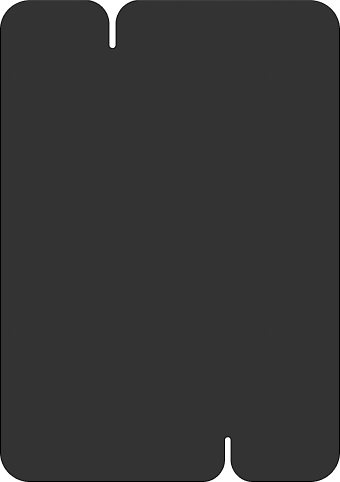
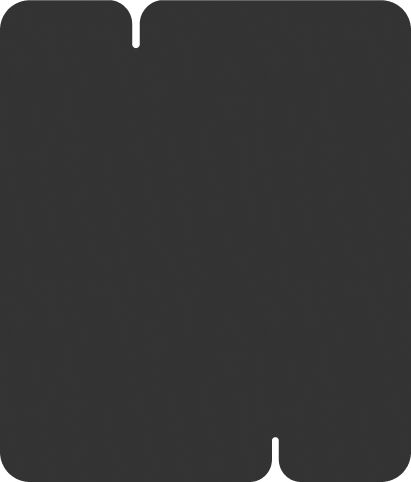
add marks #2

diff --git a/js/app.min.js b/js/app.min.js
@@ -356,7 +356,7 @@ eval("__webpack_require__.r(__webpack_exports__);\n/* harmony export */ __webpac
   \***********************/
 /***/ ((__unused_webpack___webpack_module__, __webpack_exports__, __webpack_require__) => {
 
-eval("__webpack_require__.r(__webpack_exports__);\n/* harmony import */ var swiper__WEBPACK_IMPORTED_MODULE_0__ = __webpack_require__(/*! swiper */ \"./node_modules/swiper/swiper.mjs\");\n/* harmony import */ var swiper_modules__WEBPACK_IMPORTED_MODULE_1__ = __webpack_require__(/*! swiper/modules */ \"./node_modules/swiper/modules/index.mjs\");\n\r\n// Plugins\r\n\r\n\r\nconst introWithSwiper = document.querySelector(\"._intro-with-swiper\");\r\n\r\nif (introWithSwiper) {\r\n  const swiper = introWithSwiper.querySelector(\".swiper\");\r\n  const swiperPagintaion = introWithSwiper.querySelector(\".swiper-pagination\");\r\n\r\n  const swiperInstance = new swiper__WEBPACK_IMPORTED_MODULE_0__[\"default\"](swiper, {\r\n    spaceBetween: 0,\r\n    slidesPerView: 1,\r\n    loop: true,\r\n    modules: [swiper_modules__WEBPACK_IMPORTED_MODULE_1__.Pagination],\r\n    pagination: {\r\n      el: swiperPagintaion,\r\n      clickable: true,\r\n    },\r\n  });\r\n}\r\nconst reviewsContainer = document.querySelector(\".reviews\");\r\n\r\nif (reviewsContainer) {\r\n  const slider = reviewsContainer.querySelector(\".swiper\");\r\n  const prevArrow = reviewsContainer.querySelector(\".swiper-button-prev\");\r\n  const nextArrow = reviewsContainer.querySelector(\".swiper-button-next\");\r\n\r\n  const swiperInstance = new swiper__WEBPACK_IMPORTED_MODULE_0__[\"default\"](slider, {\r\n    spaceBetween: 24,\r\n    slidesPerView: 3,\r\n    modules: [swiper_modules__WEBPACK_IMPORTED_MODULE_1__.Navigation],\r\n    navigation: {\r\n      prevEl: prevArrow,\r\n      nextEl: nextArrow,\r\n    },\r\n    breakpoints: {\r\n      332: {\r\n        slidesPerView: 1.1,\r\n        spaceBetween: 10,\r\n      },\r\n      992: {\r\n        slidesPerView: 2.4,\r\n        spaceBetween: 24,\r\n      },\r\n      1440: {\r\n        slidesPerView: 3,\r\n      },\r\n      1660: {\r\n        slidesPerView: 3,\r\n        spaceBetween: 24,\r\n      },\r\n    },\r\n  });\r\n}\r\n\r\nconst burgerButton = document.querySelector(\".header__burger\");\r\nconst burgerMenu = document.querySelector(\".header__nav\");\r\n\r\nburgerButton.onclick = (e) => {\r\n  e.preventDefault();\r\n\r\n  burgerButton.classList.toggle(\"burger-active\");\r\n  burgerMenu.classList.toggle(\"burger-active\");\r\n};\r\n\r\nfunction slide(clicableBlock, activeClass) {\r\n  clicableBlock.onclick = (e) => {\r\n    e.preventDefault();\r\n    clicableBlock.classList.toggle(activeClass);\r\n    clicableBlock.nextElementSibling.classList.toggle(activeClass);\r\n  };\r\n}\r\n\r\nconst regexpRedirectLink = /^http?:/;\r\nconst baseOffset = 20;\r\n\r\nconst scrollLinks = document.querySelectorAll(\"[data-scroll]\");\r\n\r\nfunction getHeaderOffset() {\r\n  const header = document.querySelector(\".header\");\r\n  const headerHeight = header ? header.clientHeight : 0;\r\n  return headerHeight + baseOffset;\r\n}\r\nfunction scrollToBlock(link, block) {\r\n  link.addEventListener(\"click\", (e) => {\r\n    e.preventDefault();\r\n\r\n    if (!block) return;\r\n\r\n    const rect = block.getBoundingClientRect();\r\n    const scrollTop = window.pageYOffset || document.documentElement.scrollTop;\r\n    const targetTop = rect.top + scrollTop - getHeaderOffset();\r\n\r\n    window.scrollTo({\r\n      top: targetTop,\r\n      behavior: \"smooth\",\r\n    });\r\n  });\r\n}\r\nfunction handleScrollOnPageLoad() {\r\n  const hash = window.location.hash;\r\n  if (!hash || hash === \"#\") return;\r\n\r\n  const blockId = hash.substring(1);\r\n\r\n  const block =\r\n    document.getElementById(blockId) ||\r\n    document.querySelector(hash) ||\r\n    document.querySelector(`.${blockId}`);\r\n\r\n  if (!block) return;\r\n  const rect = block.getBoundingClientRect();\r\n  const scrollTop = window.pageYOffset || document.documentElement.scrollTop;\r\n  const targetTop = rect.top + scrollTop - getHeaderOffset();\r\n\r\n  window.scrollTo({\r\n    top: targetTop,\r\n    behavior: \"smooth\",\r\n  });\r\n}\r\nwindow.addEventListener(\"load\", () => {\r\n  handleScrollOnPageLoad();\r\n});\r\n\r\nscrollLinks.forEach((link) => {\r\n  const currentBlock =\r\n    link.dataset.scroll && document.querySelector(`#${link.dataset.scroll}`);\r\n  const href = link.getAttribute(\"href\");\r\n  if (!href || !currentBlock) return;\r\n\r\n  const isScrollLink = !!currentBlock;\r\n  const isRedirectLink = href.match(regexpRedirectLink);\r\n\r\n  if (isRedirectLink) return;\r\n\r\n  if (isScrollLink) return scrollToBlock(link, currentBlock);\r\n});\r\n\r\nconst btnsShowMore = document.querySelectorAll(\".btn-show-more\");\r\n\r\nbtnsShowMore?.forEach((btn) => {\r\n  const hiddenElements = btn.previousElementSibling.querySelectorAll(\".hidden\");\r\n  btn.onclick = (e) => {\r\n    e.preventDefault();\r\n    btn.classList.toggle(\"active\");\r\n    hiddenElements.forEach((el) => el.classList.toggle(\"hidden\"));\r\n\r\n    btn.querySelector(\"span\").textContent = btn.classList.contains(\"active\")\r\n      ? \"Скрыть\"\r\n      : \"Развернуть все\";\r\n  };\r\n});\r\n\n\n//# sourceURL=webpack://tattoo/./src/js/app.js?");
+eval("__webpack_require__.r(__webpack_exports__);\n/* harmony import */ var swiper__WEBPACK_IMPORTED_MODULE_0__ = __webpack_require__(/*! swiper */ \"./node_modules/swiper/swiper.mjs\");\n/* harmony import */ var swiper_modules__WEBPACK_IMPORTED_MODULE_1__ = __webpack_require__(/*! swiper/modules */ \"./node_modules/swiper/modules/index.mjs\");\n\r\n// Plugins\r\n\r\n\r\nconst introWithSwiper = document.querySelector(\"._intro-with-swiper\");\r\n\r\nif (introWithSwiper) {\r\n  const swiper = introWithSwiper.querySelector(\".swiper\");\r\n  const swiperPagintaion = introWithSwiper.querySelector(\".swiper-pagination\");\r\n\r\n  const swiperInstance = new swiper__WEBPACK_IMPORTED_MODULE_0__[\"default\"](swiper, {\r\n    spaceBetween: 10,\r\n    slidesPerView: 1,\r\n    loop: true,\r\n    modules: [swiper_modules__WEBPACK_IMPORTED_MODULE_1__.Pagination],\r\n    pagination: {\r\n      el: swiperPagintaion,\r\n      clickable: true,\r\n    },\r\n    on: {\r\n      click: function (swiper) {\r\n        swiper.slideNext();\r\n      },\r\n    },\r\n  });\r\n}\r\nconst reviewsContainer = document.querySelector(\".reviews\");\r\n\r\nif (reviewsContainer) {\r\n  const slider = reviewsContainer.querySelector(\".swiper\");\r\n  const prevArrow = reviewsContainer.querySelector(\".swiper-button-prev\");\r\n  const nextArrow = reviewsContainer.querySelector(\".swiper-button-next\");\r\n\r\n  const swiperInstance = new swiper__WEBPACK_IMPORTED_MODULE_0__[\"default\"](slider, {\r\n    spaceBetween: 24,\r\n    slidesPerView: 3,\r\n    modules: [swiper_modules__WEBPACK_IMPORTED_MODULE_1__.Navigation],\r\n    navigation: {\r\n      prevEl: prevArrow,\r\n      nextEl: nextArrow,\r\n    },\r\n    breakpoints: {\r\n      332: {\r\n        slidesPerView: 1.1,\r\n        spaceBetween: 10,\r\n      },\r\n      992: {\r\n        slidesPerView: 2.4,\r\n        spaceBetween: 24,\r\n      },\r\n      1440: {\r\n        slidesPerView: 3,\r\n      },\r\n      1660: {\r\n        slidesPerView: 3,\r\n        spaceBetween: 24,\r\n      },\r\n    },\r\n  });\r\n}\r\n\r\nconst partnersSwiper = document.querySelector(\".partners .swiper\");\r\n\r\nif (partnersSwiper) {\r\n  const swiperInstance = new swiper__WEBPACK_IMPORTED_MODULE_0__[\"default\"](partnersSwiper, {\r\n    spaceBetween: 0,\r\n    slidesPerView: \"auto\",\r\n  });\r\n}\r\n\r\nconst burgerButton = document.querySelector(\".header__burger\");\r\nconst burgerMenu = document.querySelector(\".header__nav\");\r\n\r\nburgerButton.onclick = (e) => {\r\n  e.preventDefault();\r\n\r\n  burgerButton.classList.toggle(\"burger-active\");\r\n  burgerMenu.classList.toggle(\"burger-active\");\r\n};\r\n\r\nconst header = document.querySelector(\".header\");\r\nconst regexpRedirectLink = /^http?:/;\r\nconst baseOffset = 20;\r\n\r\nconst scrollLinks = document.querySelectorAll(\"[data-scroll]\");\r\n\r\nfunction getHeaderOffset() {\r\n  const headerHeight = header ? header.clientHeight : 0;\r\n  return headerHeight + baseOffset;\r\n}\r\nfunction scrollToBlock(link, block) {\r\n  link.addEventListener(\"click\", (e) => {\r\n    e.preventDefault();\r\n\r\n    if (!block) return;\r\n\r\n    const rect = block.getBoundingClientRect();\r\n    const scrollTop = window.pageYOffset || document.documentElement.scrollTop;\r\n    const targetTop = rect.top + scrollTop - getHeaderOffset();\r\n\r\n    burgerButton.classList.remove(\"burger-active\");\r\n    burgerMenu.classList.remove(\"burger-active\");\r\n\r\n    window.scrollTo({\r\n      top: targetTop,\r\n      behavior: \"smooth\",\r\n    });\r\n  });\r\n}\r\nfunction handleScrollOnPageLoad() {\r\n  const hash = window.location.hash;\r\n  if (!hash || hash === \"#\") return;\r\n\r\n  const blockId = hash.substring(1);\r\n\r\n  const block =\r\n    document.getElementById(blockId) ||\r\n    document.querySelector(hash) ||\r\n    document.querySelector(`.${blockId}`);\r\n\r\n  if (!block) return;\r\n  const rect = block.getBoundingClientRect();\r\n  const scrollTop = window.pageYOffset || document.documentElement.scrollTop;\r\n  const targetTop = rect.top + scrollTop - getHeaderOffset();\r\n\r\n  window.scrollTo({\r\n    top: targetTop,\r\n    behavior: \"smooth\",\r\n  });\r\n}\r\nwindow.addEventListener(\"load\", () => {\r\n  handleScrollOnPageLoad();\r\n});\r\n\r\nscrollLinks.forEach((link) => {\r\n  const currentBlock =\r\n    link.dataset.scroll && document.querySelector(`#${link.dataset.scroll}`);\r\n  const href = link.getAttribute(\"href\");\r\n  if (!href || !currentBlock) return;\r\n\r\n  const isScrollLink = !!currentBlock;\r\n  const isRedirectLink = href.match(regexpRedirectLink);\r\n\r\n  if (isRedirectLink) return;\r\n\r\n  if (isScrollLink) return scrollToBlock(link, currentBlock);\r\n});\r\n\r\nconst btnsShowMore = document.querySelectorAll(\".btn-show-more\");\r\n\r\nbtnsShowMore?.forEach((btn) => {\r\n  const hiddenElements = btn.previousElementSibling.querySelectorAll(\".hidden\");\r\n  btn.onclick = (e) => {\r\n    e.preventDefault();\r\n    btn.classList.toggle(\"active\");\r\n    hiddenElements.forEach((el) => el.classList.toggle(\"hidden\"));\r\n\r\n    btn.querySelector(\"span\").textContent = btn.classList.contains(\"active\")\r\n      ? \"Скрыть\"\r\n      : \"Развернуть все\";\r\n  };\r\n});\r\n\n\n//# sourceURL=webpack://tattoo/./src/js/app.js?");
 
 /***/ })
 

diff --git a/agree.html b/agree.html
@@ -105,8 +105,8 @@
                             <h2>Порядок отзыва согласия:</h2>
                             <p>Я вправе отозвать настоящее согласие, направив Оператору письменное (включая email с официального адреса) уведомление по контактам, указанным ниже. Отзыв согласия влечет обязательство Оператора прекратить обработку моих ПДн и уничтожить их в срок, не превышающий 30 (тридцати) дней, если иное не предусмотрено договором или действующим законодательством РФ (например, обязанностью хранить данные о платежах или данные, связанные с оказанными услугами, в течение установленного законом срока).</p>
                             <h2>Ознакомление с политикой:</h2>
-                            <p> Настоящим я подтверждаю, что ознакомлен(а) с «Политикой в отношении обработки персональных данных» Оператора, размещенной по постоянному адресу: [ссылка на страницу с Политикой конфиденциальности/ПДн на вашем сайте].</p>
-                            <h2></h2>
+                            <p>Настоящим я подтверждаю, что ознакомлен(а) с «Политикой в отношении обработки персональных данных» Оператора, размещенной по постоянному адресу: [ссылка на страницу с Политикой конфиденциальности/ПДн на вашем сайте].</p>
+                            <h2>Контактная информация:</h2>
                             <p>Контактная информация Оператора: ИП Хорошилов Кирилл Юрьевич</p>
                             <p>Адрес: 630073, Россия, г.Новосибирск, пр-кт Карла Маркса, д 33, общ</p>
                             <p>
@@ -125,7 +125,7 @@
                     </div>
                 </section>
             </main>
-            <footer class="footer">
+            <footer id="footer" class="footer">
     <div class="footer__top">
         <a href="#" class="footer__logo">
             <img src="img/logo-footer.png" alt="">

diff --git a/main.html b/main.html
@@ -28,7 +28,7 @@
                 <a data-scroll="vds" href="#">VDS</a>
                 <a data-scroll="advantages" href="#">Преимущества</a>
                 <a data-scroll="data" href="#">Data Центр</a>
-                <a data-scroll="company" href="#">Контакты</a>
+                <a data-scroll="footer" href="#">Контакты</a>
                 <a data-scroll="company" href="#">О нас</a>
                 <!-- <a data-scroll="" href="http://localhost:3000/#reviews">Отзывы</a> -->
                 <a data-scroll="reviews" href="#">Отзывы</a>
@@ -610,23 +610,25 @@
                     <header class="block-header center">
                         <h2>Наши партнеры</h2>
                     </header>
-                    <div class="partners__row">
-                        <div class="partners__item">
-                            <img src="img/index/partners/1.png" alt="">
-                        </div>
-                        <div class="partners__item">
-                            <img src="img/index/partners/2.png" alt="">
-                        </div>
-                        <div class="partners__item">
-                            <img src="img/index/partners/3.png" alt="">
-                        </div>
-                        <div class="partners__item">
-                            <img src="img/index/partners/4.png" alt="">
+                    <div class="partners__row swiper">
+                        <div class="swiper-wrapper">
+                            <div class="partners__item swiper-slide">
+                                <img src="img/index/partners/1.png" alt="">
+                            </div>
+                            <div class="partners__item swiper-slide">
+                                <img src="img/index/partners/2.png" alt="">
+                            </div>
+                            <div class="partners__item swiper-slide">
+                                <img src="img/index/partners/3.png" alt="">
+                            </div>
+                            <div class="partners__item swiper-slide">
+                                <img src="img/index/partners/4.png" alt="">
+                            </div>
                         </div>
                     </div>
                 </section>
             </main>
-            <footer class="footer">
+            <footer id="footer" class="footer">
     <div class="footer__top">
         <a href="#" class="footer__logo">
             <img src="img/logo-footer.png" alt="">

diff --git a/index.html b/index.html
@@ -28,7 +28,7 @@
                 <a data-scroll="vds" href="#">VDS</a>
                 <a data-scroll="advantages" href="#">Преимущества</a>
                 <a data-scroll="data" href="#">Data Центр</a>
-                <a data-scroll="company" href="#">Контакты</a>
+                <a data-scroll="footer" href="#">Контакты</a>
                 <a data-scroll="company" href="#">О нас</a>
                 <!-- <a data-scroll="" href="http://localhost:3000/#reviews">Отзывы</a> -->
                 <a data-scroll="reviews" href="#">Отзывы</a>
@@ -68,7 +68,7 @@
                     персональных данных
                 </a>
             </main>
-            <footer class="footer">
+            <footer id="footer" class="footer">
     <div class="footer__top">
         <a href="#" class="footer__logo">
             <img src="img/logo-footer.png" alt="">

diff --git a/css/style.min.css b/css/style.min.css
@@ -220,7 +220,8 @@ h6 {
   --secondary: #ff6c2f;
   --black: #000;
   --black-lighter: #131212;
-  --btn-hover: #131212;
+  --btn-hover: #ffffff;
+  --btn-hover-text: #ff6c2f;
   --btn-active: rgb(213, 89, 7);
   --card-bg-gradient: radial-gradient(69.98% 69.82% at 50.11% 87.99%, #013ee7 0%, #0639b8 18.42%, #09182d 81.55%);
 }
@@ -383,6 +384,7 @@ a:hover {
 }
 .btn:hover {
   background: var(--btn-hover);
+  color: var(--btn-hover-text);
 }
 .btn:active {
   background: var(--btn-active);
@@ -1428,6 +1430,9 @@ body {
     flex-direction: column;
     gap: 20px;
   }
+  .pricing__item {
+    aspect-ratio: auto;
+  }
   .advantages__row {
     grid-template-columns: repeat(2, 1fr);
     grid-auto-rows: 1fr;
@@ -1571,8 +1576,8 @@ body {
   .company {
     margin: 0 auto;
   }
-  .company picture {
-    inset: 0px;
+  .company__bg {
+    mask-size: cover;
   }
   .company__row {
     padding: 60px 25px;

diff --git a/policy.html b/policy.html
@@ -132,7 +132,7 @@
                     </div>
                 </section>
             </main>
-            <footer class="footer">
+            <footer id="footer" class="footer">
     <div class="footer__top">
         <a href="#" class="footer__logo">
             <img src="img/logo-footer.png" alt="">
